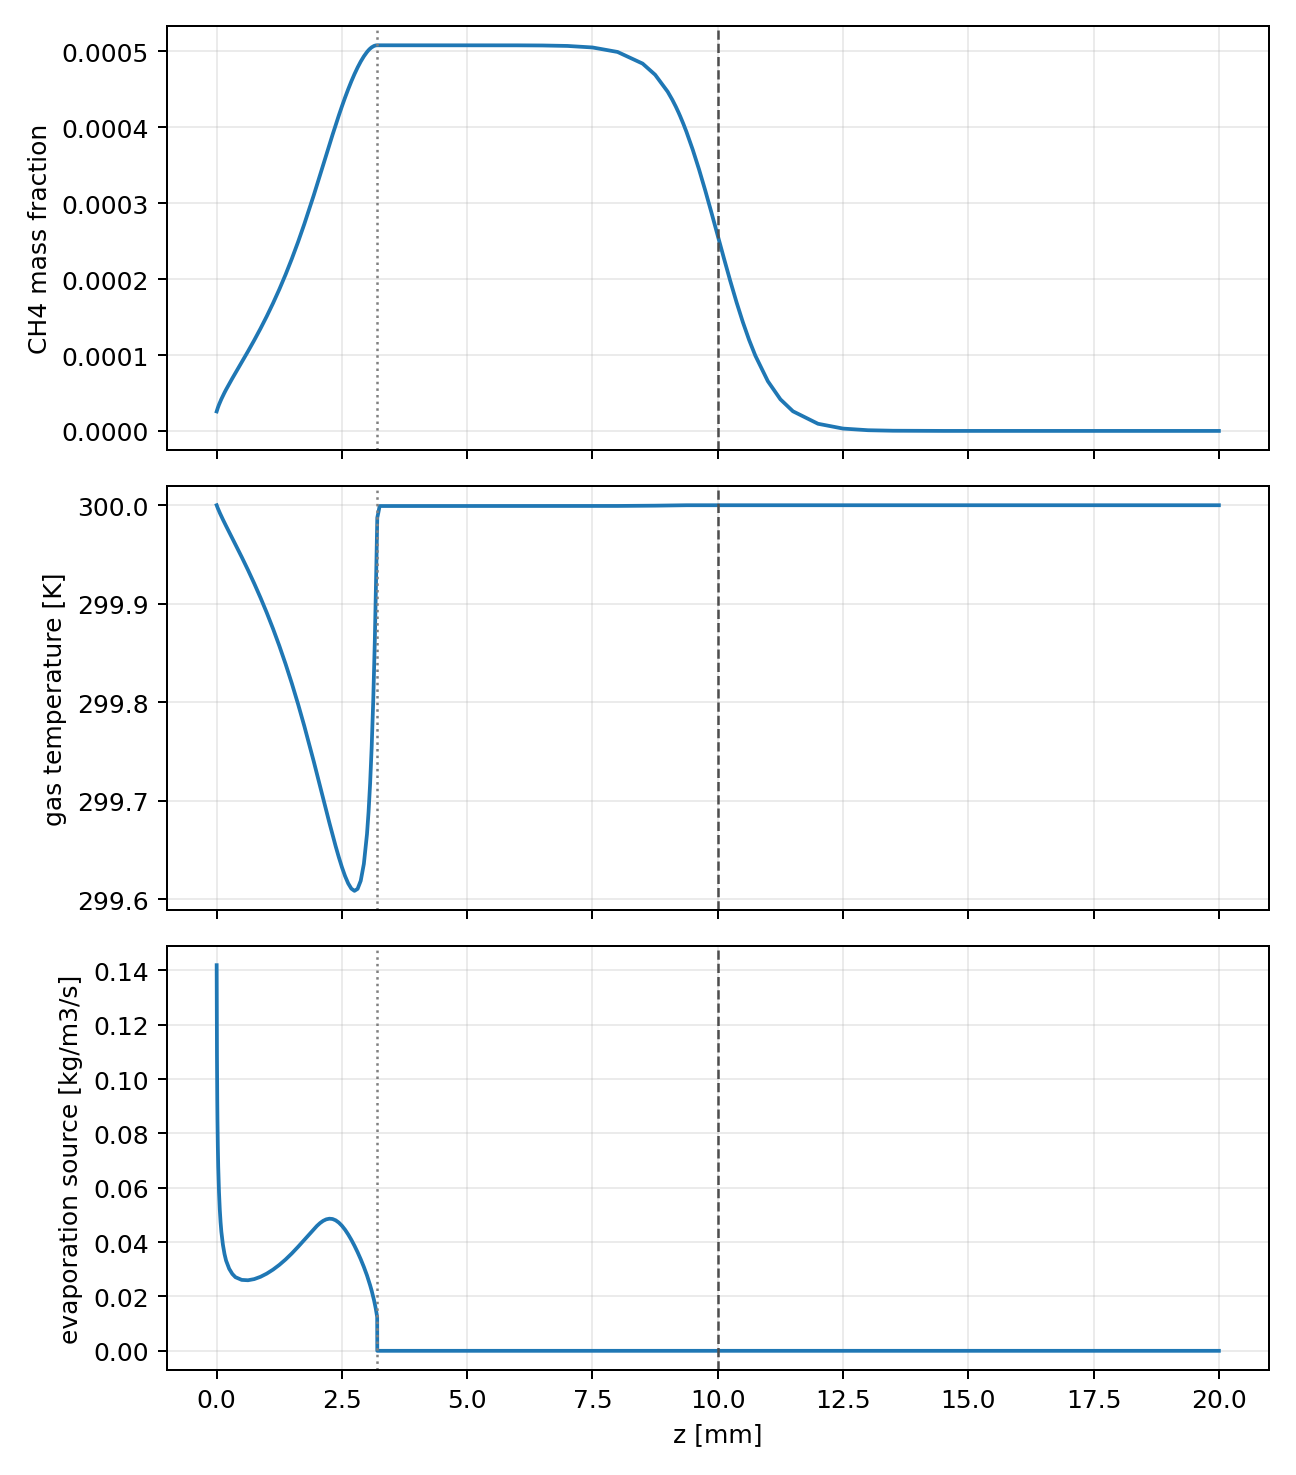
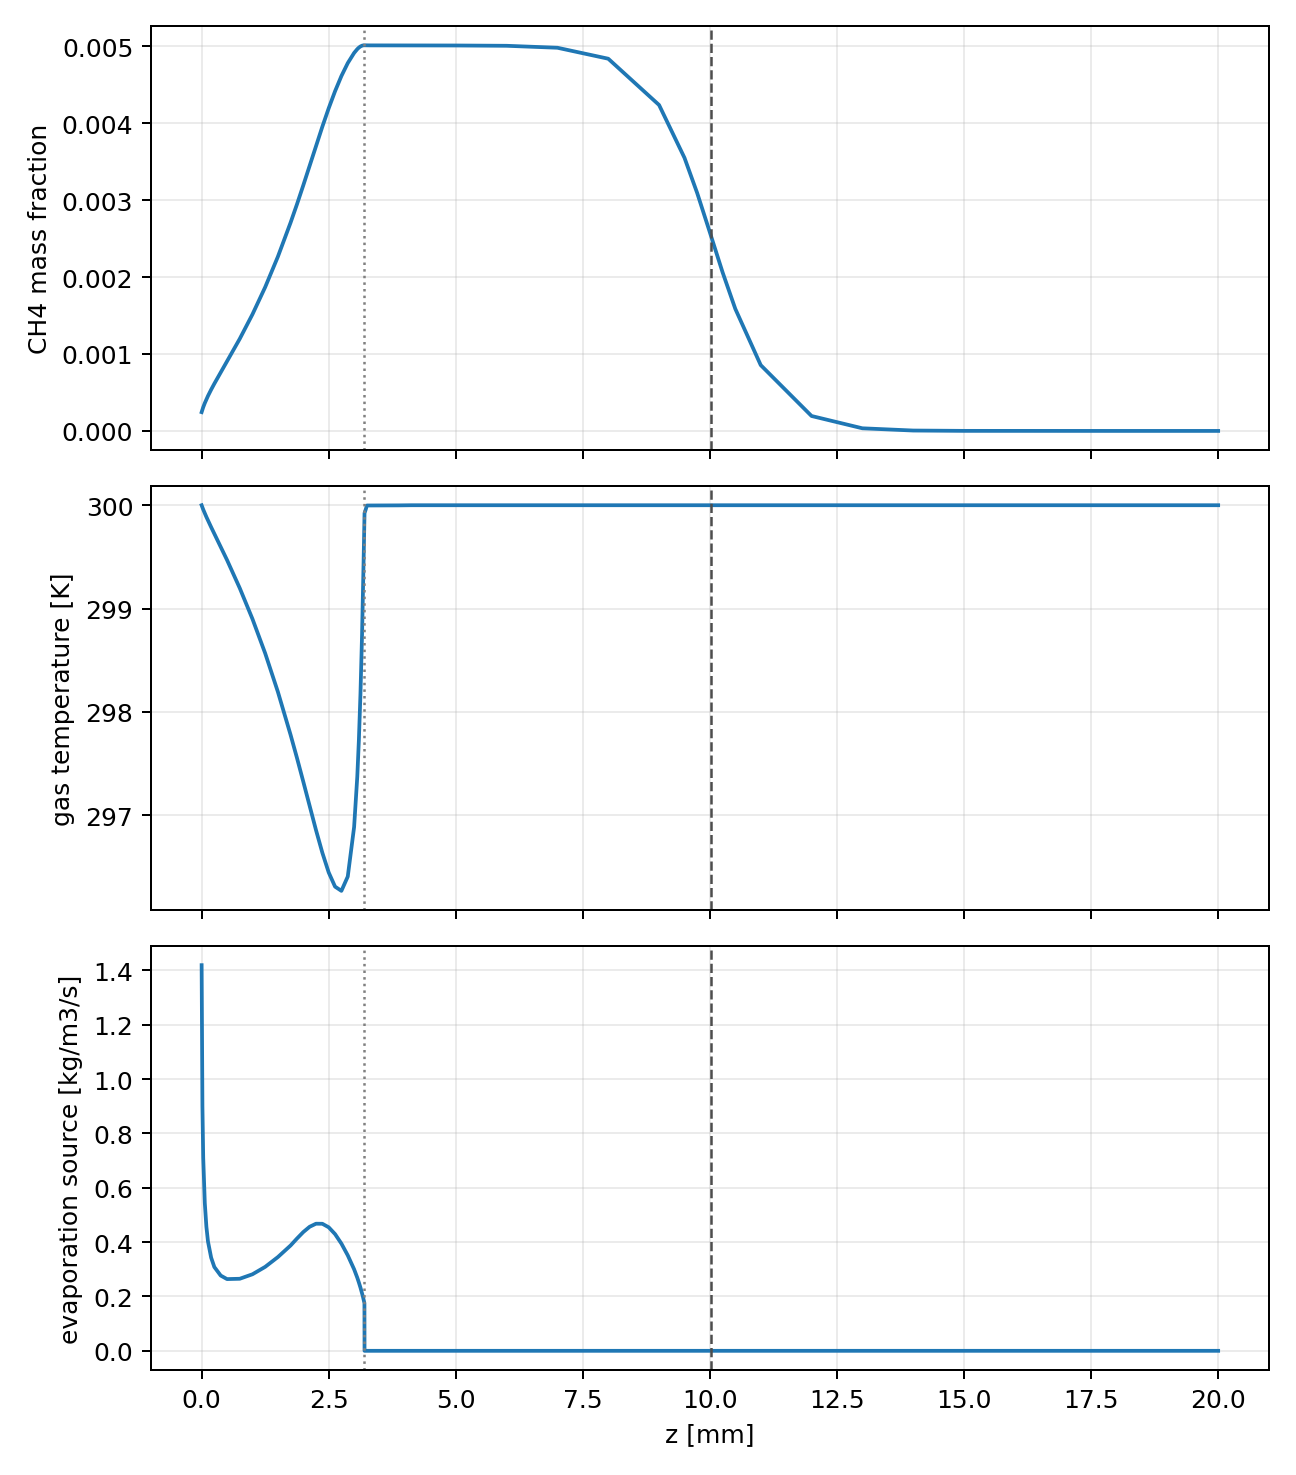
Improve spray auto solve robustness

diff --git a/validation/spray_counterflow/validate_auto_solve.py b/validation/spray_counterflow/validate_auto_solve.py
@@ -41,7 +41,7 @@ GAS_SPEED = 0.2
 DROPLET_SPEED = 1.0
 DIAMETER = 40e-6
 D_MIN = 2e-6
-LIQUID_LOADING = 1e-4
+LIQUID_LOADING = 1e-3
 AIR = "O2:0.21,N2:0.79"
 
 
@@ -149,10 +149,10 @@ def check_solution(sim: ct.CounterflowDiffusionFlame, summary: dict[str, float])
     assert np.count_nonzero(wet) > 25
     assert np.all(np.diff(diameter[wet]) <= 5e-11)
     assert np.all(liquid_density >= -1e-18)
-    assert summary["max_ch4_mass_fraction"] > 1e-5
-    assert summary["minimum_temperature"] < TGAS - 0.05
+    assert summary["max_ch4_mass_fraction"] > 1e-3
+    assert summary["minimum_temperature"] < TGAS - 1.0
     assert summary["minimum_energy_source"] < 0.0
-    assert np.max(np.abs(np.sum(sim.Y, axis=0) - 1.0)) < 1e-7
+    assert np.max(np.abs(np.sum(sim.Y, axis=0) - 1.0)) < 5e-7
 
 
 def plot_solution(sim: ct.CounterflowDiffusionFlame, outdir: Path) -> None:
@@ -214,7 +214,7 @@ def main() -> None:
     plot_solution(sim, outdir)
 
     with (outdir / "auto_solve_summary.csv").open("w", newline="") as f:
-        writer = csv.DictWriter(f, fieldnames=summary.keys())
+        writer = csv.DictWriter(f, fieldnames=summary.keys(), lineterminator="\n")
         writer.writeheader()
         writer.writerow(summary)
 

diff --git a/interfaces/cython/cantera/onedim.py b/interfaces/cython/cantera/onedim.py
@@ -1443,7 +1443,7 @@ class CounterflowDiffusionFlame(FlameBase):
         self.set_initial_guess(mode="linear")
 
         if self._using_default_refine_criteria():
-            self.set_refine_criteria(ratio=4.0, slope=0.08, curve=0.12, prune=0.0)
+            self.set_refine_criteria(ratio=5.0, slope=0.16, curve=0.24, prune=0.0)
 
         final_energy = self.energy_enabled
         final_mass = self.flame.gas_phase_spray_mass_source_enabled
@@ -1457,6 +1457,7 @@ class CounterflowDiffusionFlame(FlameBase):
         self.flame.gas_phase_spray_sources_enabled = False
         self.flame.droplet_axial_drag_enabled = False
         self.flame.droplet_spread_drag_enabled = False
+        self._set_spray_profiles(self._integrate_spray_initial_guess(False))
         self._solve_spray_stage(loglevel, refine_grid, "solving one-way spray without drag")
 
         if final_axial_drag:

diff --git a/validation/spray_counterflow/README.md b/validation/spray_counterflow/README.md
@@ -85,8 +85,9 @@ The checks are conservative:
 - set symmetric air inlet boundary conditions
 - call `solve(auto=True)` with no validation-only staging helpers
 
-The case is a fully coupled nonreacting methane spray in air with droplet drag,
-gas mass/species/momentum feedback, the gas energy equation, and spray energy
+The case is a fully coupled nonreacting methane spray in air at a `1e-3`
+liquid-to-gas mass-density loading with droplet drag, gas
+mass/species/momentum feedback, the gas energy equation, and spray energy
 feedback enabled. The checks verify that the stagnation plane remains centered,
 the droplets dry out before the stagnation plane, the dryout layer is resolved
 on a dynamically refined grid, methane vapor and gas cooling are produced, and
